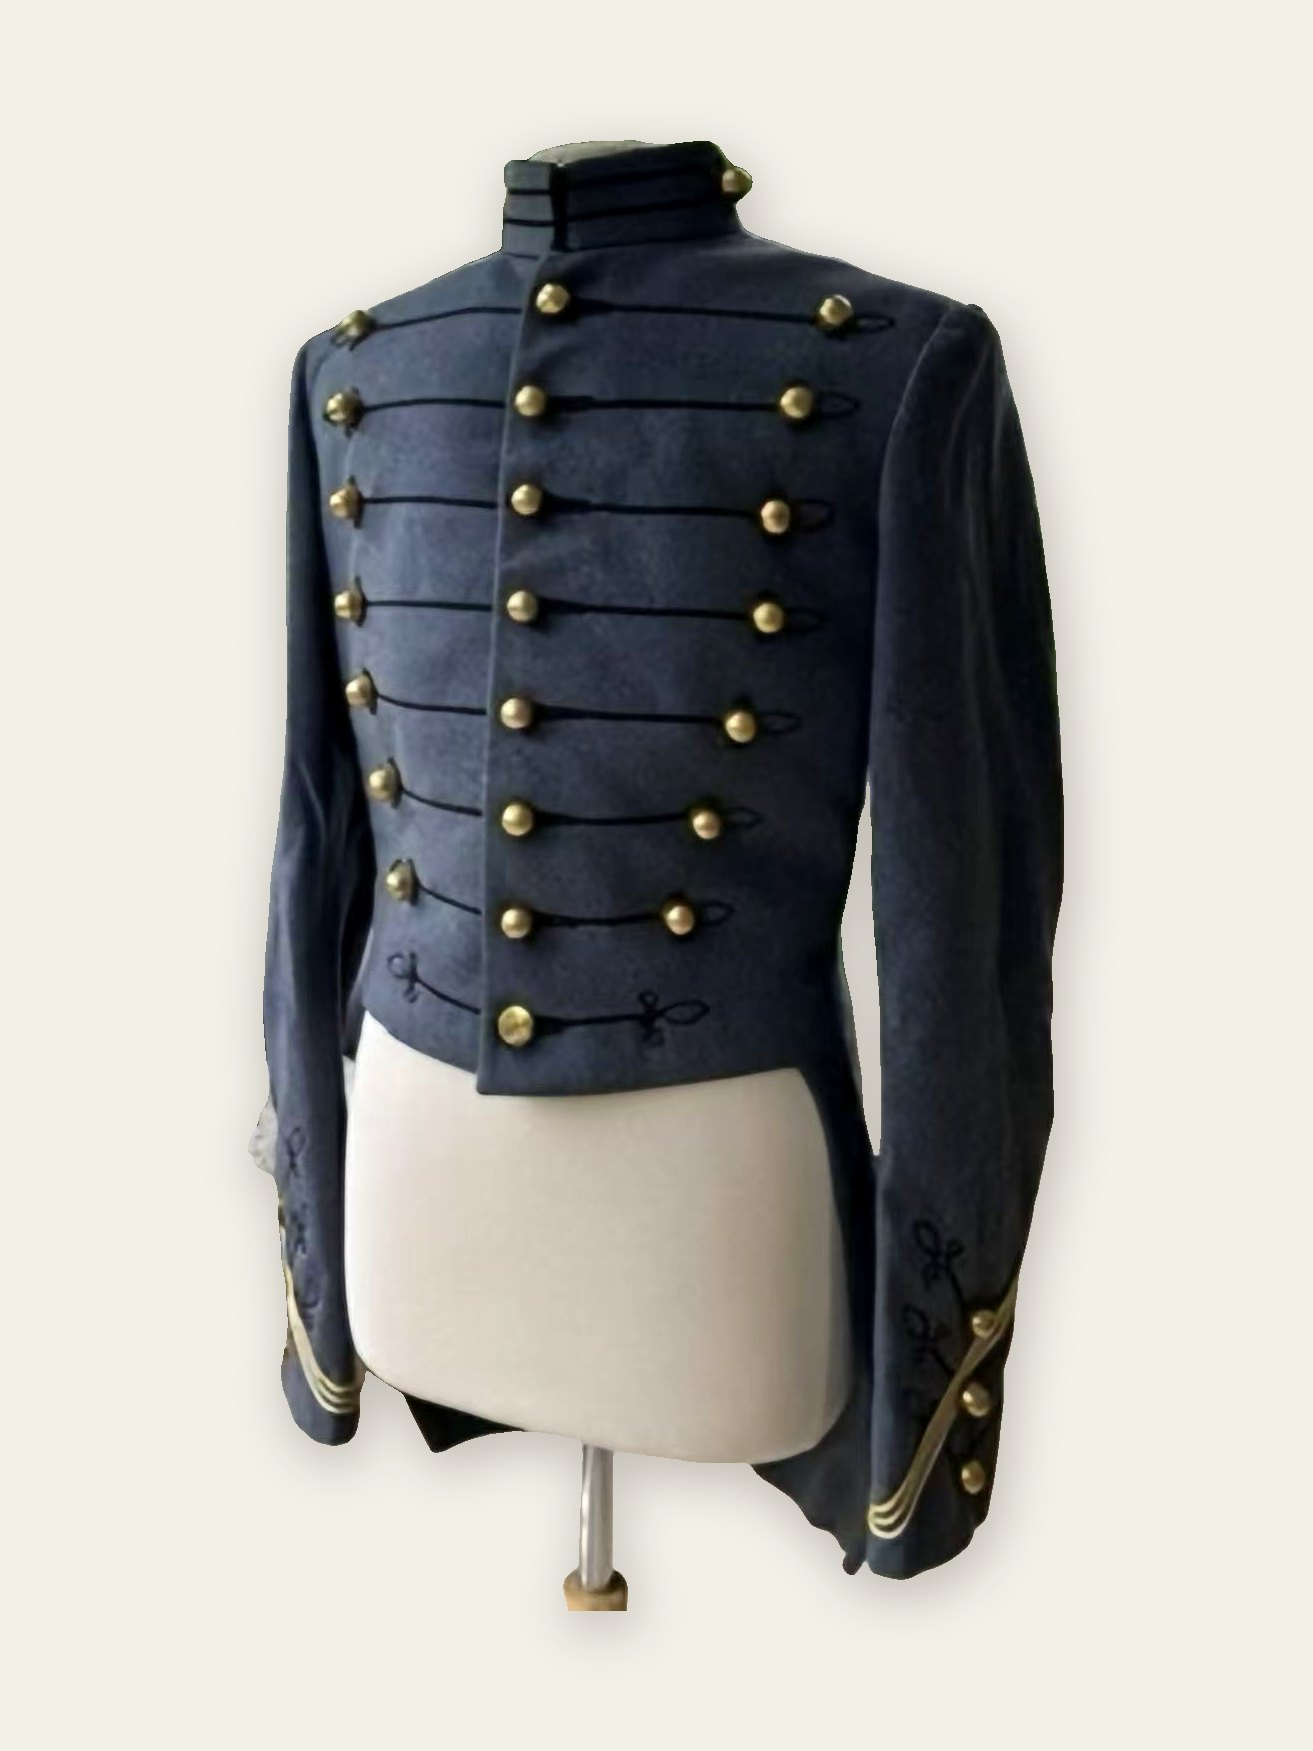
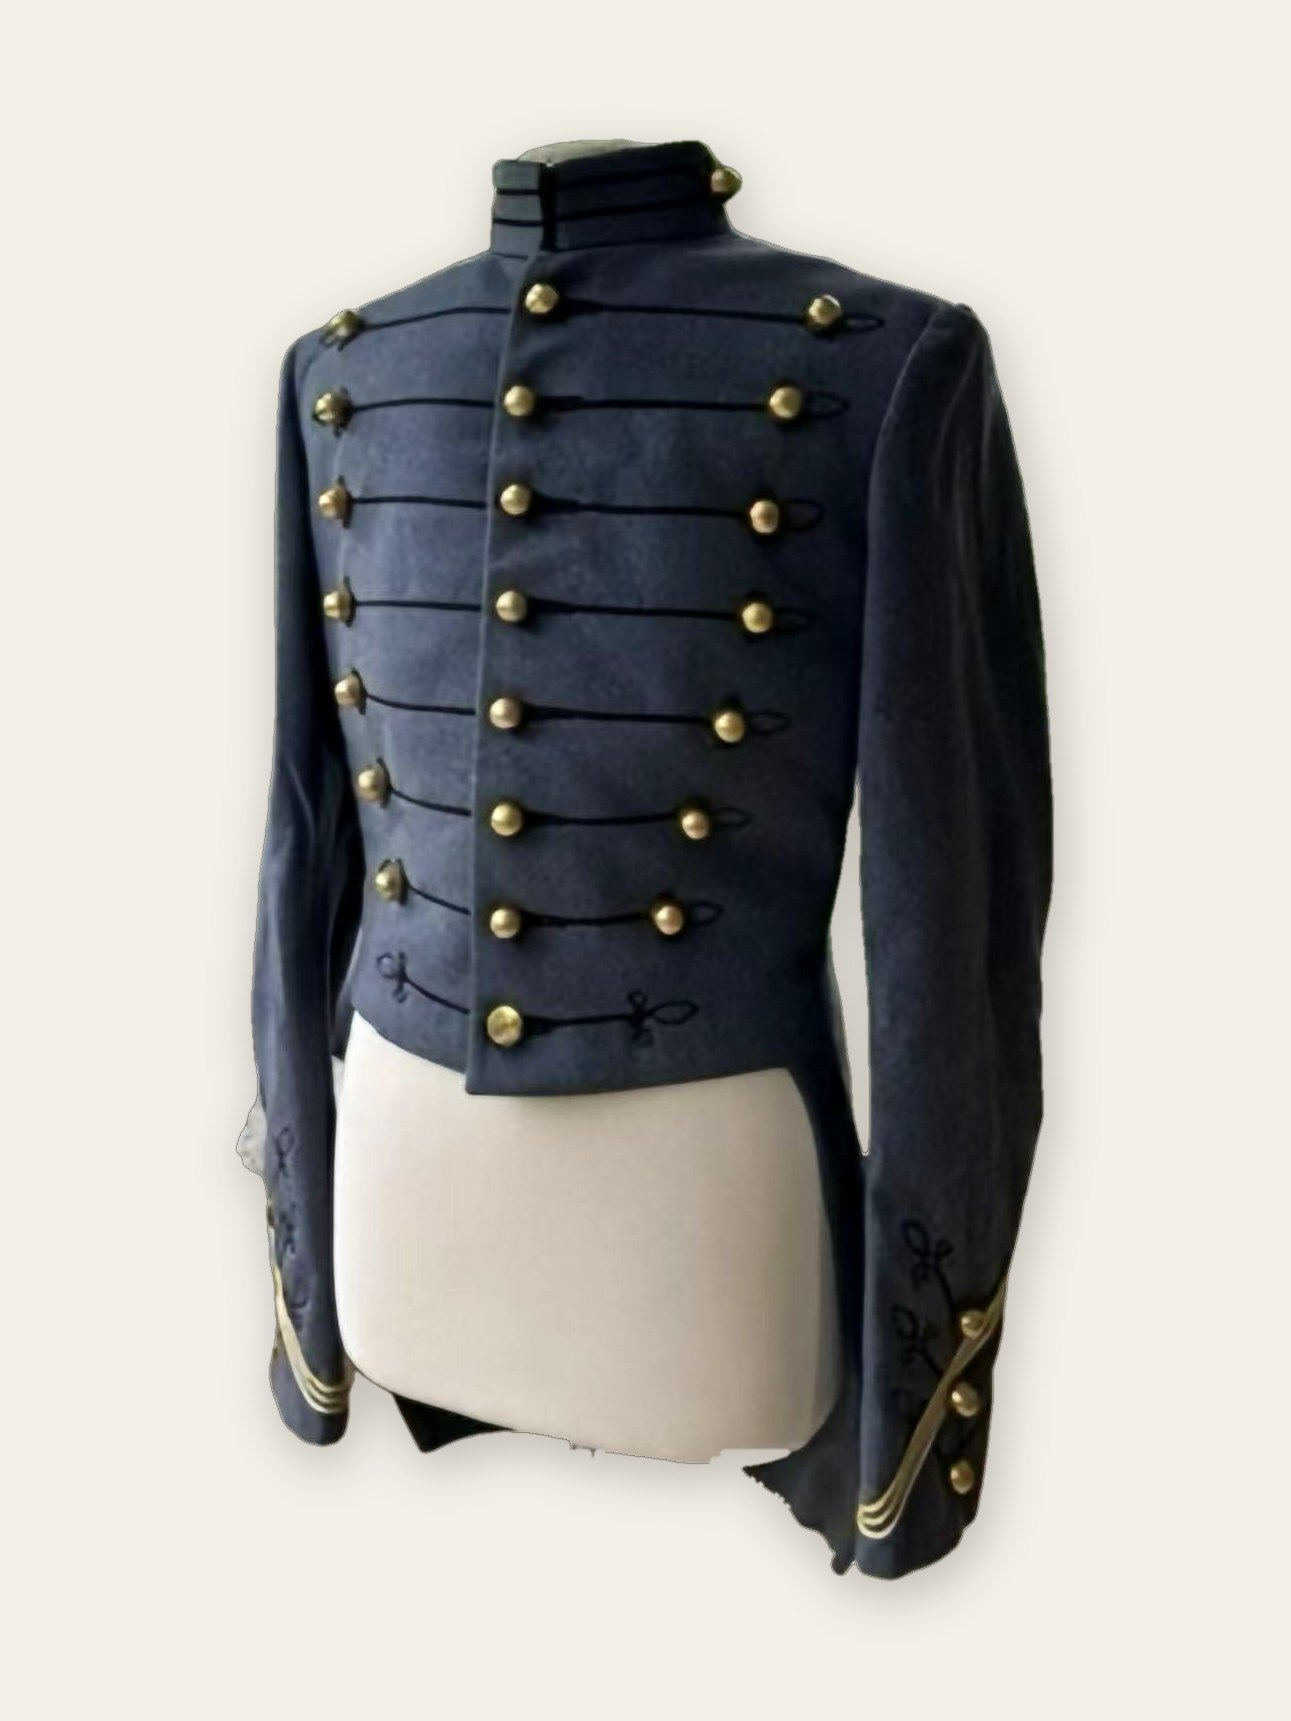
Remove the stand under the West Point coat, keeping the dress form
Claude-Session: https://claude.ai/code/session_0146WwfpqSoST3wS5kAsYEcA

Changed region(s): [[0.1859, 0.0924, 0.7436, 0.8623], [0.4338, 0.1848, 0.8366, 0.9239], [0.4338, 0.0616, 0.5267, 0.0924]]

diff --git a/tools/standardize.py b/tools/standardize.py
@@ -38,6 +38,8 @@ NEUTRALIZE = {}                               # id -> strength 0..1
 BG_OVERRIDE = {"r009": (22, 20, 20)}   # pale or silver objects sit on black
 # Garments photographed on a hanger: the hook above the shoulders is removed.
 REMOVE_HANGER = {"r009", "r012", "r014"}
+# Garments photographed on a dress form: the pole and base below the form are removed, the form stays.
+REMOVE_STAND = {"r013"}
 
 
 def items():
@@ -145,6 +147,30 @@ def drop_hanger(cut):
     return Image.fromarray(a, "RGBA")
 
 
+def drop_stand(cut):
+    """Remove the pole and base under a dress form: everything below the pale form, in a central
+    band, that is not the dark cloth of the garment."""
+    import cv2
+    from scipy import ndimage
+    a = np.asarray(cut).copy(); rgb = np.ascontiguousarray(a[..., :3]); alpha = a[..., 3]; obj = alpha > 128
+    hsv = cv2.cvtColor(rgb, cv2.COLOR_RGB2HSV); s, v = hsv[..., 1], hsv[..., 2]
+    pale = ndimage.binary_opening(obj & (v > 150) & (s < 70), iterations=2)
+    lab, n = ndimage.label(pale)
+    if n == 0: return cut
+    sizes = ndimage.sum(pale, lab, range(1, n + 1)); form = np.isin(lab, 1 + np.where(sizes > 0.004 * obj.sum())[0])
+    ys, xs = np.where(form)
+    if len(ys) == 0: return cut
+    bottom = ys.max(); cx = int(np.median(xs[ys > np.percentile(ys, 90)])); h, w = obj.shape
+    band = np.zeros_like(obj); band[max(0, bottom - 10):, max(0, cx - int(0.18 * w)):min(w, cx + int(0.18 * w))] = True
+    cloth = (v < 110) | ((s > 60) & (v < 150))
+    stand = ndimage.binary_dilation(ndimage.binary_closing(obj & band & ~cloth & ~form, iterations=3), iterations=3)
+    keep = obj & ~stand
+    lab, n = ndimage.label(keep)
+    if n: keep = lab == (1 + int(np.argmax(ndimage.sum(keep, lab, range(1, n + 1)))))
+    a[..., 3] = cv2.GaussianBlur((alpha * keep).astype(np.uint8), (0, 0), 1.0)
+    return Image.fromarray(a, "RGBA")
+
+
 def cut_out(im, iid, session):
     from rembg import remove
     import cv2
@@ -163,6 +189,8 @@ def cut_out(im, iid, session):
         cut = Image.fromarray(np.dstack([rgb, a]), "RGBA")
     if iid in REMOVE_HANGER:
         cut = drop_hanger(cut)
+    if iid in REMOVE_STAND:
+        cut = drop_stand(cut)
     bbox = cut.getbbox()
     if not bbox: raise RuntimeError(f"{iid}: no object found")
     sub = cut.crop(bbox); alpha = sub.split()[3]
